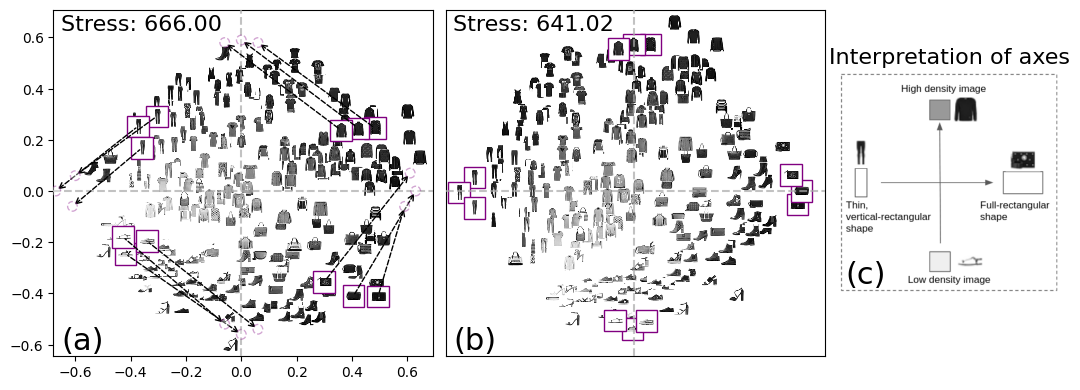
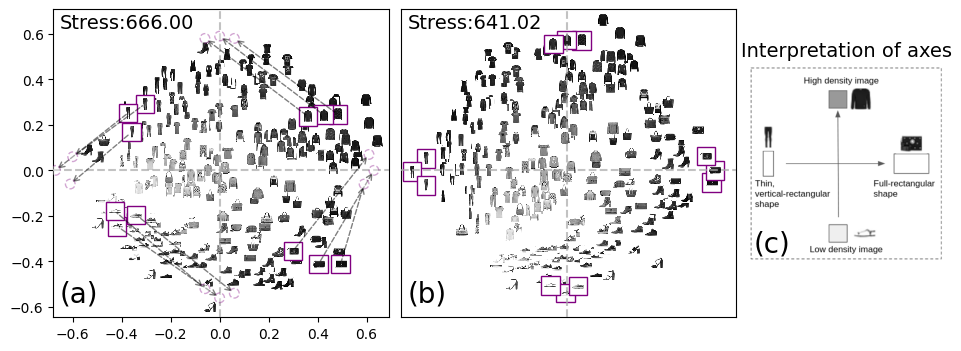
Update plot digits5 full pairs

diff --git a/plot.py b/plot.py
@@ -354,6 +354,10 @@ def _plot_automobile_legend(ax):
 def _plot_automobile_axes_names(ax, marker_styles):
     _style_axes(ax, show_coordinates=False, hide_ticks=True)
     ax.set_title("Interpretation of axes")
+    for spine in ax.spines.values():
+        spine.set_linestyle("-.")
+        spine.set_alpha(0.5)
+
     ax.text(0.0, 0.04, "(c)", transform=ax.transAxes, fontsize=18)
     ax.set_xlim(-2, 2.25)
     ax.set_ylim(-2, 2.25)
@@ -460,7 +464,7 @@ def _style_axes(ax, show_coordinates=True, hide_ticks=False):
 
 def _show_moved_points(ax, src_pos, des_pos, annote_src=True, annote_des=True):
     # show arrow from src to des
-    arrowprops = dict(arrowstyle="<-", linestyle="--")
+    arrowprops = dict(arrowstyle="<-", linestyle="--", alpha=0.5)
     for src, des in zip(src_pos, des_pos):
         ax.annotate(text="", xy=src, xytext=des, arrowprops=arrowprops, zorder=998)
 
@@ -488,7 +492,7 @@ def plot_image_dataset(
 ):
     from matplotlib.offsetbox import OffsetImage, AnnotationBbox
 
-    fig = plt.figure(figsize=(13, 4.5))
+    fig = plt.figure(figsize=(11.5, 4))
     gs = fig.add_gridspec(1, 13)
     ax0 = fig.add_subplot(gs[0, 0:5])
     ax1 = fig.add_subplot(gs[0, 5:10])
@@ -501,7 +505,7 @@ def plot_image_dataset(
     img_size = int(math.sqrt(X.shape[1]))
     X = X.reshape(-1, img_size, img_size)
 
-    def _scatter_image(ax, Z, zoom=0.375, cmap="binary", fixed_indices=[]):
+    def _scatter_image(ax, Z, zoom=0.3, cmap="binary", fixed_indices=[]):
         def _add_artist(img, pos, **style):
             ab = AnnotationBbox(OffsetImage(img, zoom=zoom, cmap=cmap), pos, **style)
             ax.add_artist(ab)
@@ -517,26 +521,32 @@ def plot_image_dataset(
             _add_artist(X[i], Z[i], **highlighted)
 
     fixed_indices, des_pos = list(zip(*fixed_points))
+    if dataset_name == "fmnist":
+        zoom = 0.3
+        annotation_pos = (0.02, 0.94)
+    else:
+        zoom = 0.75
+        annotation_pos = (0.54, 0.94)
 
     for i, [ax, Z, stress] in enumerate(zip([ax0, ax1], [Z0, Z1], stresses)):
         _style_axes(ax, show_coordinates=True, hide_ticks=(i > 0))
-        _scatter_image(ax, Z, fixed_indices=fixed_indices)
+        _scatter_image(ax, Z, zoom=zoom, fixed_indices=fixed_indices)
         ax.set_xlim(xlims)
         ax.set_ylim(ylims)
         ax.text(
-            0.02, 0.94, f"Stress: {stress:.2f}", transform=ax.transAxes, fontsize=16
+            *annotation_pos, f"Stress:{stress:.2f}", transform=ax.transAxes, fontsize=14
         )
         if dataset_name == "fmnist":
             ax_idx = chr(ord("a") + i)
-            ax.text(0.02, 0.02, f"({ax_idx})", transform=ax.transAxes, fontsize=22)
+            ax.text(0.02, 0.05, f"({ax_idx})", transform=ax.transAxes, fontsize=20)
 
     _show_moved_points(ax0, Z0[fixed_indices, :], np.array(des_pos), annote_src=False)
 
     if dataset_name == "fmnist":
         ax2 = fig.add_subplot(gs[0, 10:])
         ax2.axis("off")
-        ax2.set_title("Interpretation of axes", fontsize=16)
-        ax2.text(x=0.03, y=0.05, s="(c)", transform=ax2.transAxes, fontsize=22)
+        ax2.set_title("Interpretation of axes", fontsize=14)
+        ax2.text(x=0.03, y=0.05, s="(c)", transform=ax2.transAxes, fontsize=20)
         axes_img = plt.imread(f"./plots/MAP2/fmnist/axes.png")
         img_pos = [-1.0, 1.0, -1.0, 1.0]
         ax2.imshow(axes_img, extent=img_pos)

diff --git a/config.py b/config.py
@@ -490,6 +490,7 @@ pre_config = {
             learning_rate=2.25,
             sigma_local=1e-3,
             sigma_fix=1e-3,
+            fixed_points="embeddings/digits5.json",
             # missing_pairs=0.3,
             random_state=42,
             std=False,  # digits already in [0, 1]
